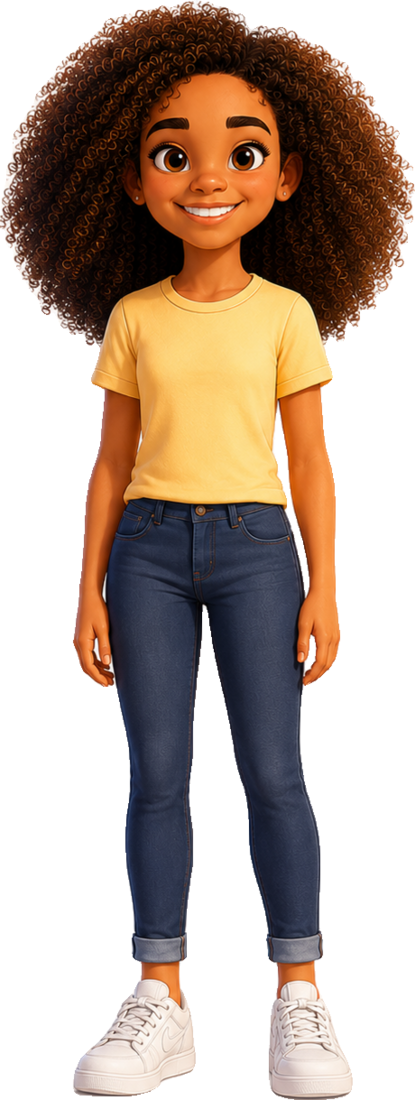
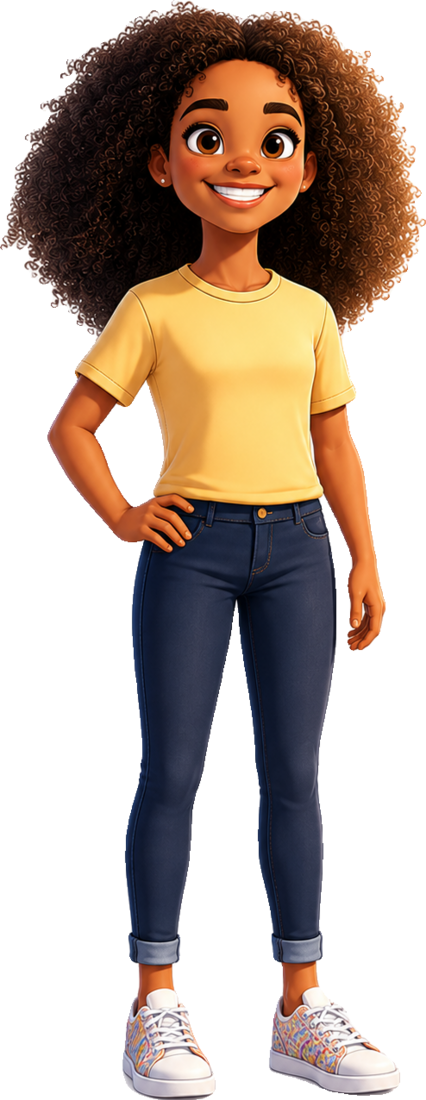
Add character art batch 7-12
- Dedicated solo Dan (child-avatar) + solo Daria (daria-solo) cutouts
- Daria pointing -> quiz brain-check helper
- Paper-airplane pose -> Shop intro
- Surprised pose -> Reward Unlocked celebration
- Thumbs-up pose -> Rewards intro

diff --git a/src/components/empowered/CollectibleShopScreen.tsx b/src/components/empowered/CollectibleShopScreen.tsx
@@ -19,7 +19,8 @@ import {
   type Collectible,
 } from "@/services/shop";
 import { cn } from "@/lib/utils";
-import dariaAndFriend from "@/assets/daria-and-friend.webp";
+import dariaAndFriend from "@/assets/dan-daria-airplane.webp";
+import danDariaSurprised from "@/assets/dan-daria-surprised.webp";
 import { StoryProsLogo, CurrencyBadge } from "./StoryProsBrand";
 
 interface CollectibleShopScreenProps {
@@ -180,6 +181,7 @@ export function CollectibleShopScreen({ onClose }: CollectibleShopScreenProps) {
         <div className="absolute inset-0 z-50 flex items-center justify-center bg-ink/40 backdrop-blur-sm">
           <div className="mx-6 w-full max-w-xs rounded-[28px] bg-card p-6 text-center shadow-soft animate-pop-in">
             <p className="text-sm font-extrabold uppercase tracking-wider text-secondary-foreground">Reward Unlocked!</p>
+            <img src={danDariaSurprised} alt="" className="mx-auto mt-2 h-24 w-auto object-contain" />
             <span className="mt-3 block text-6xl">{justPurchased.icon}</span>
             <h3 className="mt-2 font-display text-xl font-extrabold text-primary">{justPurchased.name}</h3>
             <p className="mt-1 text-sm text-ink-soft">It's yours — find it in My Collection.</p>

diff --git a/src/components/empowered/phases/ComprehensionPhase.tsx b/src/components/empowered/phases/ComprehensionPhase.tsx
@@ -11,7 +11,7 @@ import { ProgressHeader } from "./ProgressHeader";
 import type { StoryPhaseProps, ActivityAttempt } from "@/types/story";
 import { cn } from "@/lib/utils";
 import { speak, stop, speedToRate, preloadVoices, isSupported } from "@/services/tts";
-import dariaSolo from "@/assets/daria-solo.png";
+import dariaSolo from "@/assets/daria-pointing.webp";
 
 type BrainCheckState =
   | { type: "none" }

diff --git a/src/components/empowered/AchievementGalleryScreen.tsx b/src/components/empowered/AchievementGalleryScreen.tsx
@@ -9,7 +9,7 @@
 import { useState, useMemo } from "react";
 import { TactileButton } from "./TactileButton";
 import msLopez from "@/assets/ms-lopez.png";
-import dariaAndFriend from "@/assets/daria-and-friend.webp";
+import dariaAndFriend from "@/assets/dan-daria-thumbsup.webp";
 import { cn } from "@/lib/utils";
 import { useAuth } from "@/contexts/AuthContext";
 import {
